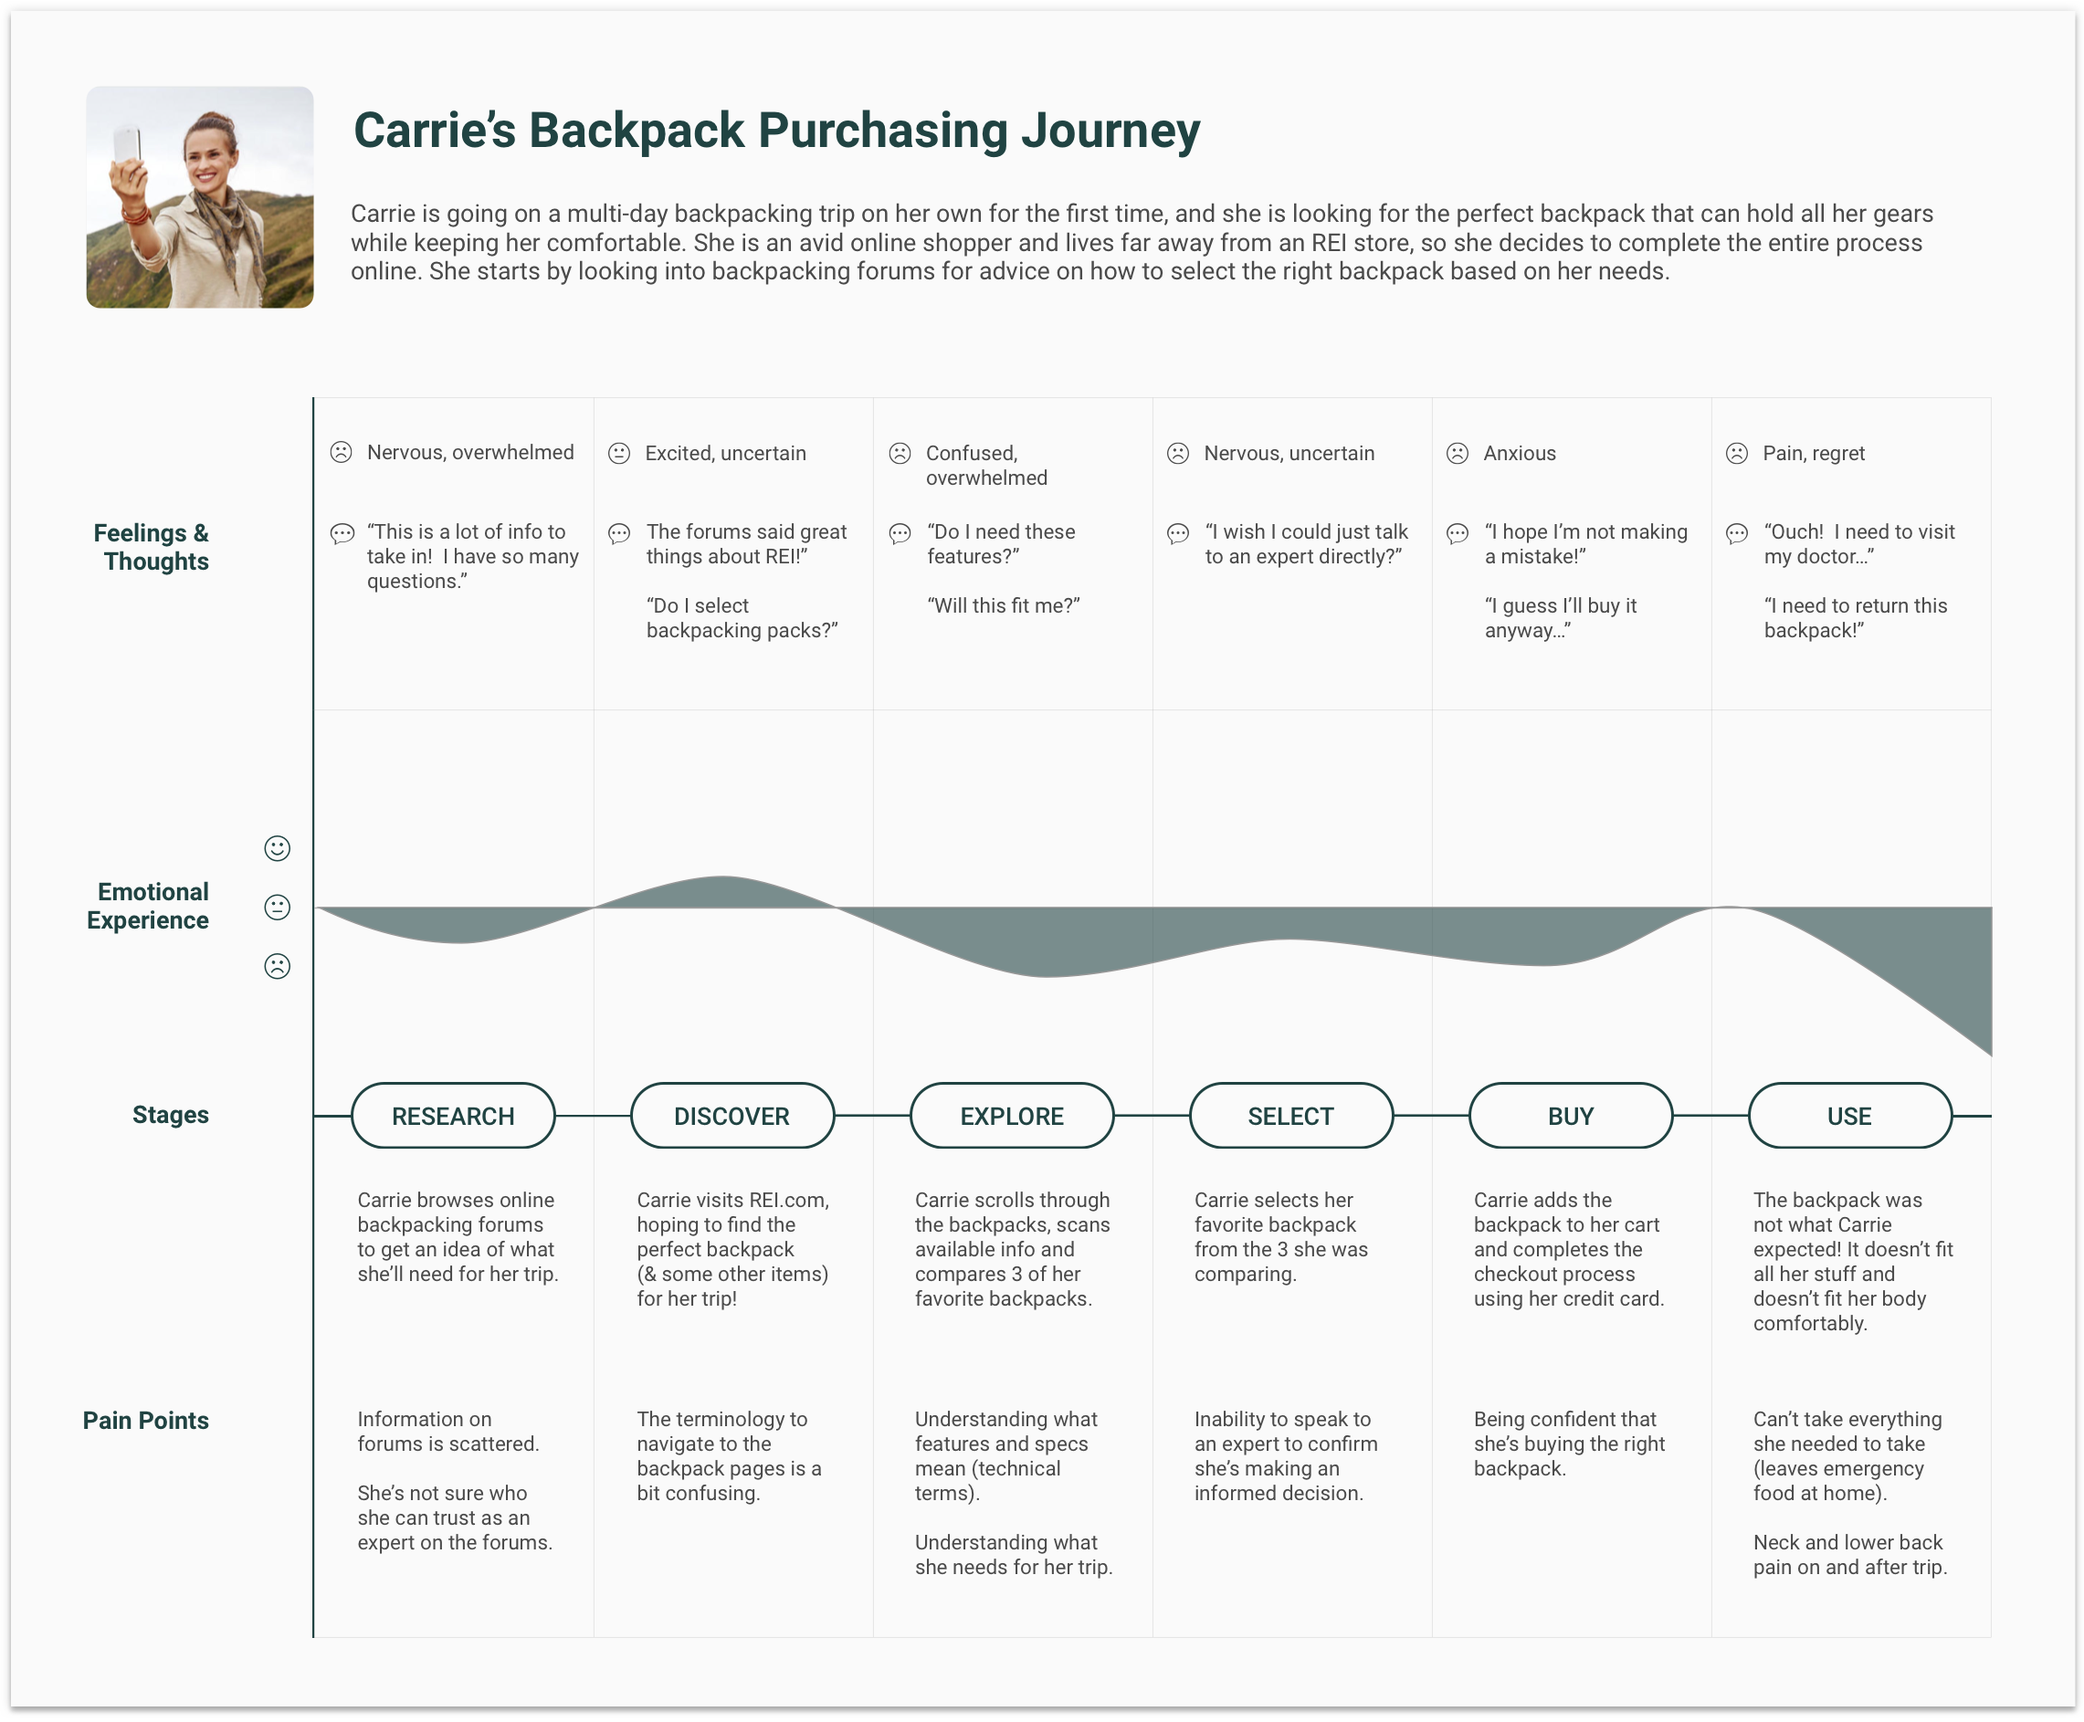
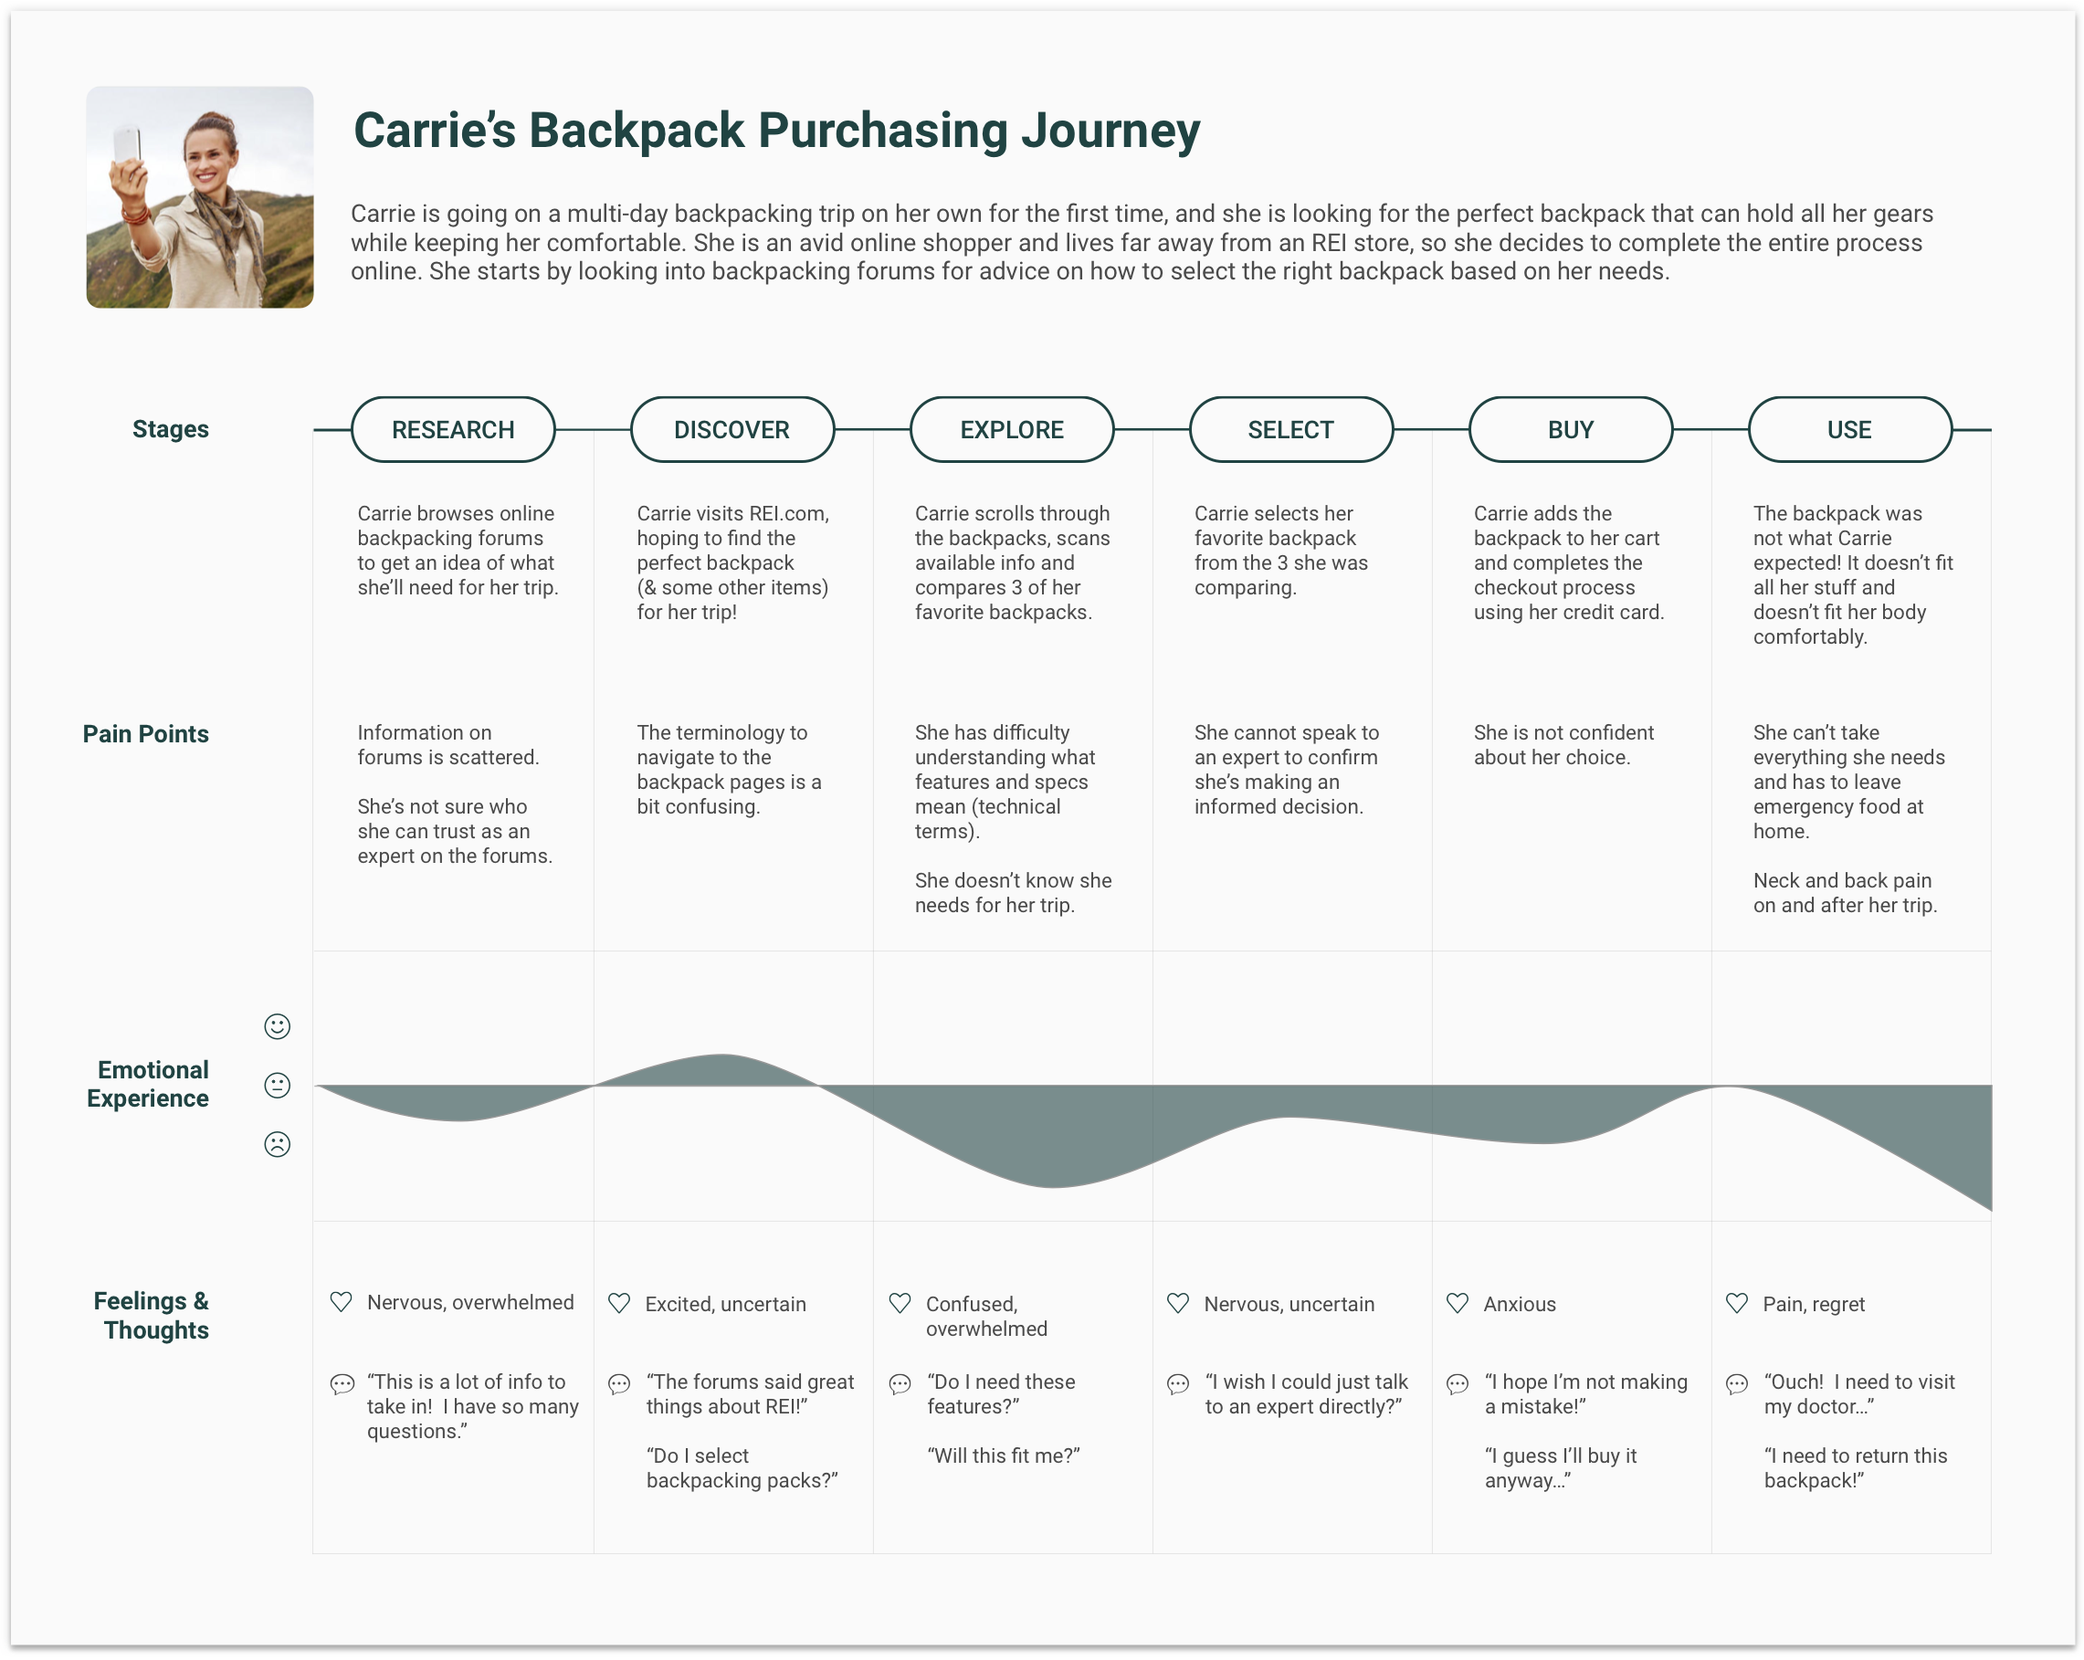
Updated REI journey, added Up persona, description, and design process

diff --git a/html/Works/mental-health.html b/html/Works/mental-health.html
@@ -102,8 +102,8 @@
               <div class="row">
                 <div id="objective" class="subgroup-left-side col-lg-8 col-md-8 col-sm-12 col-xs-12">
                     <h4>Objective</h4>
-                    <p>Being in a well-established school, a majority of Georgia Tech students are typically known as Type A students, who are more achievement-oriented, ambitious, and competitive. The heavy workload at Tech, together with students' high standards for themselves, leads to a high level of stress and other mental health issues. Recently, one Georgia Tech student who suffered from depression unfortunately passed away. The incident prompted the administration to invest 1 million dollars into mental health initiatives aimed to lower students' stress level. <br><br>
-                    Within such a context, we designed an intervention that helps deal with student stress. Our design motivates students to slow down and perform breathing exercises together with other members in the community.
+                    <p>Being in a well-established school, a majority of Georgia Tech students are typically known as Type A students, who are more achievement-oriented, ambitious, and competitive. The heavy workload at Tech, together with students' high standards for themselves, leads to a high level of stress and other mental health issues.<br><br>
+                    Within such a context, we designed a collective breathing game application that encourages students to do deep breathing exercises together for stress relief.
                     </p>
                 </div>
 
@@ -126,14 +126,23 @@
 
               <div id="methods" class="subgroup">
                   <h4>Methods</h4>
-                  <p>We first conducted a literature review on stress and an expert interview with a mental health expert. The information we gathered, together with the feedback we received from classmates and professors, helped us settle on topic of promoting collective breathing as a way to reduce student stress.<br><br>
-
-                  We then conducted a literature review on breathing exercises, and three competitive analyses on existing apps that promote breathing exercises, existing apps that provide community-based health solutions, and sensors that can measure breathing patterns. We also conducted interviews with potential users, and created two persona to guide our design process...
-                  </p>
               </div>
+            </section>
+          </div>
+          <img class="img-responsive large-img"src="../../assets/Up-design-process.png" alt="Design process">
+
+          <div class="col-lg-7 col-md-7 col-sm-10 col-xs-12 col-centered fade-in main-content">
+            <section class="group">
+              <!-- <div class="subgroup">
+              </div> -->
+
               <div id="my-role" class="subgroup">
                   <h4>My Contribution</h4>
-                  <p>I contributed to the literature review and competitive analysis. After we developed interview questions as a group, I was in charge of interviewing potential users and creating personas using Sketch...
+                  <p>During the research phase, <strong>I was in charge of interviewing potential users and creating personas using Sketch.</strong> I also contributed to the literature review and competitive analysis.<br><br>
+
+                  After brainstorming ideas as a group, <strong>I created low-fidelity prototypes</strong> (storyboards and illustrations) of the collective breathing dark-room concept, and <strong>moderated user feedback sessions</strong>. We finalized our design concept as a group, and <strong>I created the user interface for the onboarding process and the tutorial of the app using Sketch.</strong> <strong>I also created the game animation using Principle.</strong> <br><br>
+
+                  During the evaluation phase, I moderated several usability testing sessions, and <strong>was in charge of analyzing & synthesizing the data we collected and deriving design recommendations from them.</strong>
                   </p>
               </div>
           </section>
@@ -178,8 +187,8 @@
 
               <div id="persona" class="subgroup">
                 <h4>Persona</h4>
-                <p>
-                </p>
+                <img class="img-responsive full-img"src="../../assets/up-persona-1.png" alt="Persona-1"> <br><br>
+                <img class="img-responsive full-img"src="../../assets/up-persona-2.png" alt="Persona-2"> <br><br>
               </div>
 
               <div id="ideation" class="subgroup">

diff --git a/html/Works/REI-backpack.html b/html/Works/REI-backpack.html
@@ -79,9 +79,13 @@
                   <li><a href="#survey">Detailed Online Survey</a></li>
                   <li><a href="#summary-research">Additional Research</a></li>
                   <li><a href="#persona">Persona</a></li>
-                  <li><a href="#journey-mapping">Customer Journey Mapping</a></li>
+                  <li><a href="#journey-mapping">Journey Mapping</a></li>
                   <li><a href="#ideation">Ideation</a></li>
                   <li><a href="#design-alt">Design Alternatives</a></li>
+                  <li><a href="#wireframes">Wireframes</a></li>
+                  <li><a href="#prototype">Prototype</a></li>
+                  <li><a href="#evaluation">Evaluation</a></li>
+                  <li><a href="#iterations">Iterations</a></li>
                 </ul>
               </li>
 
@@ -271,8 +275,7 @@
               </div>
 
               <div id="journey-mapping" class="subgroup">
-                <h4>Customer Journey Mapping</h4>
-                <p><em><strong>This is ongoing work. Please check back for updates.</strong></em></p>
+                <h4>Journey Mapping</h4>
               </div>
             </section>
           </div>
@@ -280,15 +283,48 @@
 
           <img class="img-responsive large-img"src="../../assets/REI-journey-1.png" alt="Customer Journey-1"><br><br>
 
+          <img class="img-responsive large-img"src="../../assets/REI-journey-2.png" alt="Customer Journey-2"><br><br>
+
           <div class="col-lg-7 col-md-7 col-sm-10 col-xs-12 col-centered fade-in main-content">
             <section class="group">
               <div class="subgroup">
 
               </div>
 
+              <div id="ideation" class="subgroup">
+                <h4>Ideation</h4>
+                <p>In order to encourage divergent and creative thinking, we decided to <strong>brainstorm design ideas individually before coming together and presenting our ideas to the group</strong>. Each group member referred back to the user needs we identified in the research stage to make sure that the solutions we came up with addressed at least part of our users' needs. Below are some of our individual sketches.
+                </p>
+
+                <p><em><strong>This is ongoing work. Please check back for updates.</strong></em></p>
+              </div>
 
               <div id="design-alt" class="subgroup">
                 <h4>Design Alternatives</h4>
+                <p>
+                </p>
+              </div>
+
+              <div id="wireframes" class="subgroup">
+                <h4>Wireframes</h4>
+                <p>
+                </p>
+              </div>
+
+              <div id="prototype" class="subgroup">
+                <h4>Prototype</h4>
+                <p>
+                </p>
+              </div>
+
+              <div id="evaluation" class="subgroup">
+                <h4>Evaluation</h4>
+                <p>
+                </p>
+              </div>
+
+              <div id="iterations" class="subgroup">
+                <h4>Iterations</h4>
                 <p>
                 </p>
               </div>

diff --git a/html/About.html b/html/About.html
@@ -11,7 +11,7 @@
 
       gtag('config', 'UA-111016994-1');
     </script>
-    
+
     <meta charset="utf-8">
     <meta name="viewport" content="width=device-width, user-scalable=false;">
     <title>About me</title>
@@ -59,6 +59,7 @@
         <div class="col-lg-7 col-md-7 col-sm-10 col-xs-12 col-centered">
           <div class="row">
             <div class="col-lg-7 col-md-7 col-sm-7 col-xs-12">
+              <!-- Add different photos of activities and make the page more fun :) -->
               <h2>I'm Tony Yanfeng Jin</h2>
               <h5>Currently a first-year MS-HCI student at Georgia Tech</h5>
               <br>

diff --git a/html/Works/financial-literacy.html b/html/Works/financial-literacy.html
@@ -11,7 +11,7 @@
 
       gtag('config', 'UA-111016994-1');
     </script>
-    
+
     <meta charset="utf-8">
     <meta name="viewport" content="width=device-width, user-scalable=false;">
     <title>Personal Finance</title>
@@ -390,7 +390,7 @@
 
               <div id="usability-testing" class="subgroup">
                 <h4>Usability Testing</h4>
-                <p><em>This is ongoing work. Please check back for updates later.</p>
+                <p><em>This is ongoing work. Please check back for updates later.</em></p>
 
               </div>
 
